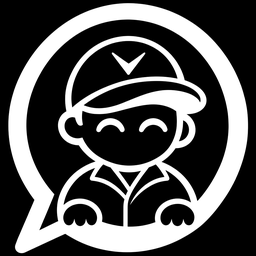
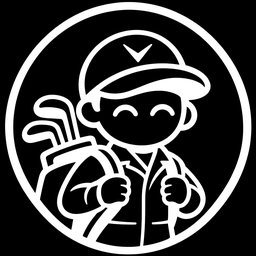
Add files via upload

diff --git a/js/views/home.js b/js/views/home.js
@@ -33,7 +33,7 @@ export async function render(main, { previewClient } = {}) {
   if (calAllowed()) {
     const talk = el("button", { type: "button", class: "hm-orb", "aria-label": "Ask Cal: tap to talk" }, el("span", { "aria-hidden": "true" }));
     // (update 621) Cal himself in the orb (the caddie in a speech bubble, in dark ink), with a small microphone badge: tap to talk
-    talk.firstChild.innerHTML = '<svg class="hm-cal-face" viewBox="0 0 20 20"><mask id="hm-cal-m"><image href="icons/cal.png?v=2" width="20" height="20"/></mask><rect width="20" height="20" fill="#1a1408" mask="url(#hm-cal-m)"/></svg>';
+    talk.firstChild.innerHTML = '<svg class="hm-cal-face" viewBox="0 0 20 20"><mask id="hm-cal-m"><image href="icons/cal.png?v=3" width="20" height="20"/></mask><rect width="20" height="20" fill="#1a1408" mask="url(#hm-cal-m)"/></svg>';
     talk.appendChild(el("span", { class: "hm-orb-mic", "aria-hidden": "true" }));
     talk.lastChild.innerHTML = '<svg viewBox="0 0 24 24"><rect x="9" y="3" width="6" height="11" rx="3" fill="#fff"/><path d="M6 11a6 6 0 0 0 12 0M12 17v4M9 21h6" stroke="#fff" stroke-width="2" fill="none" stroke-linecap="round"/></svg>';
     const open = async (listen) => { const m = await import("../callie.js"); await m.openCallie(); if (listen && !(await import("../listen.js")).isIOS()) setTimeout(() => document.querySelector(".cal-mic:not(.on)")?.click(), 150); };

diff --git a/index.html b/index.html
@@ -5,7 +5,7 @@
 <meta name="viewport" content="width=device-width, initial-scale=1, viewport-fit=cover">
 <!-- (update 267) Add to Home Screen: opens as its own app, full screen, with no Safari address bar -->
 <link rel="manifest" href="manifest.webmanifest">
-<link rel="apple-touch-icon" href="icons/apple-touch-icon.png?v=652">
+<link rel="apple-touch-icon" href="icons/apple-touch-icon.png?v=654">
 <meta name="apple-mobile-web-app-capable" content="yes">
 <meta name="mobile-web-app-capable" content="yes">
 <meta name="apple-mobile-web-app-status-bar-style" content="black-translucent">
@@ -25,11 +25,11 @@
 <link rel="preconnect" href="https://fonts.googleapis.com">
 <link rel="preconnect" href="https://fonts.gstatic.com" crossorigin>
 <link rel="stylesheet" href="https://fonts.googleapis.com/css2?family=Inter:wght@200;300;400;500;600;700&display=swap">
-<link rel="stylesheet" href="css/style.css?v=652">
+<link rel="stylesheet" href="css/style.css?v=654">
 <script src="config.js"></script>
 </head>
 <body>
 <div id="app"><p class="boot-msg ta-loading">Loading&hellip;</p></div>
-<script type="module" src="js/main.js?v=652"></script>
+<script type="module" src="js/main.js?v=654"></script>
 </body>
 </html>

diff --git a/js/ui.js b/js/ui.js
@@ -74,7 +74,7 @@ export function icon(name) {
   if (name === "robot" || name === "calface") { // (update 624: calface: Cal without his speech bubble, for the header's coin)
     const ns = "http://www.w3.org/2000/svg", id = `callie-m${++robotN}`;
     const mask = document.createElementNS(ns, "mask"); mask.setAttribute("id", id);
-    const img = document.createElementNS(ns, "image"); img.setAttribute("href", name === "calface" ? "icons/cal-face.png?v=2" : "icons/cal.png?v=2"); /* (update 620: Cal, the caddie in a speech bubble) */ img.setAttribute("width", "20"); img.setAttribute("height", "20");
+    const img = document.createElementNS(ns, "image"); img.setAttribute("href", name === "calface" ? "icons/cal-face.png?v=4" : "icons/cal.png?v=3"); /* (update 620: Cal, the caddie in a speech bubble) */ img.setAttribute("width", "20"); img.setAttribute("height", "20");
     mask.appendChild(img);
     const rect = document.createElementNS(ns, "rect"); rect.setAttribute("width", "20"); rect.setAttribute("height", "20"); rect.setAttribute("fill", "currentColor"); rect.setAttribute("mask", `url(#${id})`);
     svg.append(mask, rect); svg.classList.add("ico-callie");

diff --git a/sw.js b/sw.js
@@ -1,7 +1,7 @@
 // Offline: keeps a copy of the app itself so it opens with no signal (Data Entry on the course).
 // The page and the app's files: fresh when online, the saved copy when not. The Firebase libraries
 // (versioned, never change): the saved copy first. Data goes through Firebase, not here.
-const CACHE = "tour-analytics-v652";
+const CACHE = "tour-analytics-v654";
 self.addEventListener("install", (e) => { self.skipWaiting(); e.waitUntil(caches.open(CACHE).then((c) => c.addAll(["./", "./index.html", "./css/style.css", "./config.js"]).catch(() => {}))); });
 self.addEventListener("activate", (e) => e.waitUntil(caches.keys().then((ks) => Promise.all(ks.filter((k) => k !== CACHE).map((k) => caches.delete(k)))).then(() => self.clients.claim())));
 self.addEventListener("fetch", (e) => {
